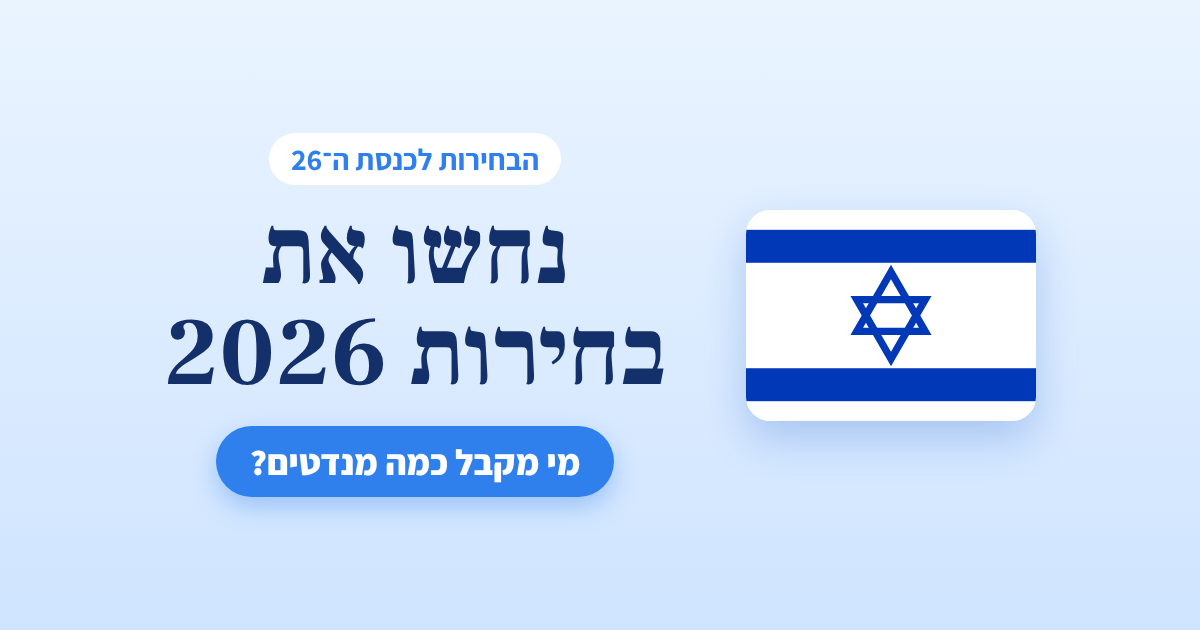
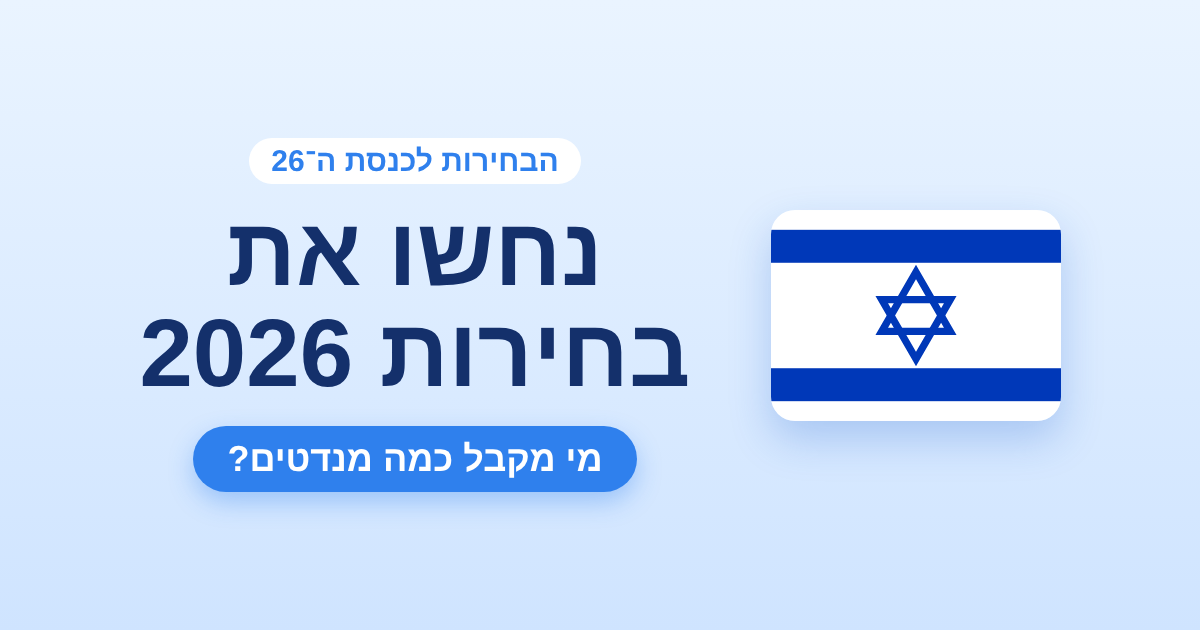
Use Arial throughout
Claude-Session: https://claude.ai/code/session_011zLgVRGcwNmGERSTmv9Eor

diff --git a/index.html b/index.html
@@ -7,11 +7,9 @@
 <meta name="description" content="חלקו 120 מנדטים בין המפלגות ושלחו את הניחוש שלכם לחברים בווטסאפ.">
 <meta property="og:title" content="נחשו את בחירות 2026">
 <meta property="og:description" content="חלקו 120 מנדטים בין המפלגות ושלחו את הניחוש לחברים.">
-<meta property="og:image" content="https://ozmadvil.github.io/mandatim/og.png?v=4">
+<meta property="og:image" content="https://ozmadvil.github.io/mandatim/og.png?v=5">
 <meta property="og:url" content="https://ozmadvil.github.io/mandatim/">
 <meta name="twitter:card" content="summary_large_image">
-<link rel="preconnect" href="https://fonts.googleapis.com">
-<link rel="stylesheet" href="https://fonts.googleapis.com/css2?family=Frank+Ruhl+Libre:wght@400;500;700;900&family=Assistant:wght@400;600;700&display=swap">
 <style>
 html{padding-top:env(safe-area-inset-top);padding-bottom:env(safe-area-inset-bottom);background:var(--bg-2)}body{margin:0}
 img{max-width:100%}[hidden]{display:none!important}
@@ -29,8 +27,8 @@ img{max-width:100%}[hidden]{display:none!important}
   --muted:#6a7c99;
   --ok:#1f9d61;
   --warn:#d14343;
-  --serif:"Frank Ruhl Libre","David","Times New Roman",serif;
-  --sans:"Assistant","Segoe UI",Arial,sans-serif;
+  --serif:Arial,"Helvetica Neue",Helvetica,sans-serif;
+  --sans:Arial,"Helvetica Neue",Helvetica,sans-serif;
   color-scheme:light;
 }
 *{box-sizing:border-box}
@@ -309,7 +307,7 @@ footer{color:var(--muted);text-align:center;font-size:.8rem}
   }
   function drawImage(){
     const NAVY="#14306b", BLUE="#2f80ed", MUTED="#6a7c99", LINE="#e3edf9";
-    const SERIF='"Frank Ruhl Libre", "Times New Roman", serif', SANS='"Assistant", Arial, sans-serif';
+    const SERIF='Arial, Helvetica, sans-serif', SANS='Arial, Helvetica, sans-serif';
     const g=ctx.createLinearGradient(0,0,0,H); g.addColorStop(0,"#eaf4ff"); g.addColorStop(1,"#d2e6ff");
     ctx.fillStyle=g; ctx.fillRect(0,0,W,H);
     ctx.direction="rtl"; ctx.textBaseline="alphabetic";
@@ -395,9 +393,7 @@ footer{color:var(--muted);text-align:center;font-size:.8rem}
     flash("התמונה נשמרה – עכשיו שלחו בווטסאפ וצרפו אותה",true);
   };
   render();
-  (document.fonts&&document.fonts.ready?document.fonts.ready:Promise.resolve()).then(()=>{
-    Promise.all(['700 78px "Frank Ruhl Libre"','700 28px "Assistant"','800 36px "Assistant"'].map(f=>document.fonts.load(f).catch(()=>{}))).then(refreshShot);
-  });
+  refreshShot();
 })();
 </script>
 
